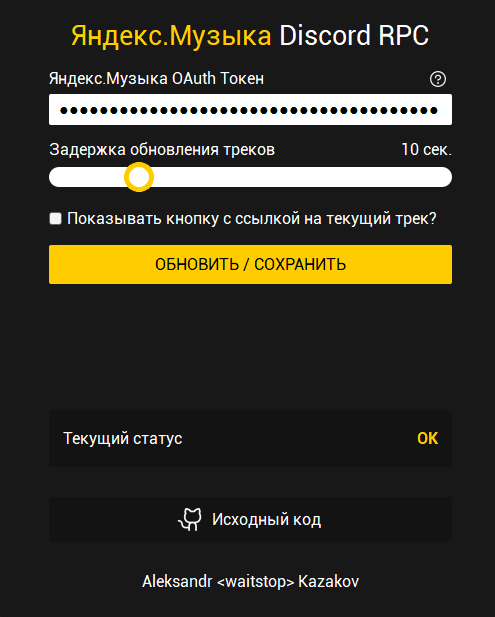
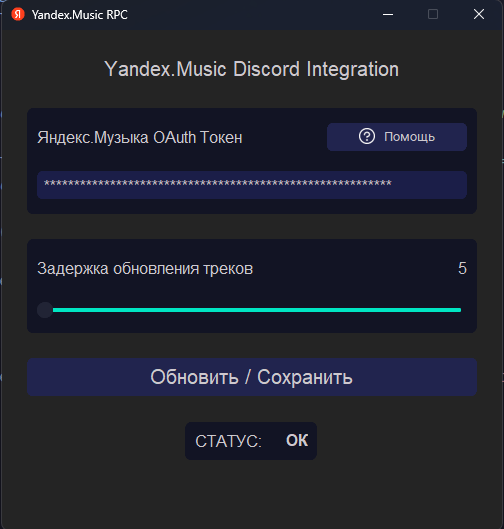
Realised main functional on new GUI

diff --git a/handlers/rpc.py b/handlers/rpc.py
@@ -1,0 +1,15 @@
+from tkinter import StringVar
+
+from pypresence import Presence
+from pypresence.exceptions import PyPresenceException
+
+
+def update_rpc(data: dict | Exception, rpc: Presence, status: StringVar) -> Exception | None:
+    try:
+        if type(data) == Exception:
+            status.set(str(data))
+            return data
+        rpc.update(**data)
+    except PyPresenceException:
+        status.set("Ошибка обновления RPC")
+        return Exception("Ошибка обновления RPC")

diff --git a/README.md b/README.md
@@ -1,8 +1,17 @@
 # Интеграция Яндекс.Музыки для Discord
+
 [![yandex-music-api](https://img.shields.io/badge/using-Yandex%20Music%20API-red?style=for-the-badge&logo=discord&logoWidth=20)](https://github.com/MarshalX/yandex-music-api)  [![pypresence](https://img.shields.io/badge/using-pypresence-00bb88.svg?style=for-the-badge&logo=discord&logoWidth=20)](https://github.com/qwertyquerty/pypresence)
+
+
+## [Как получить токен?](https://yandex-music.readthedocs.io/en/main/token.html)
+<hr>
+
+<h1>Скриншоты</h1>
+<hr>
 
 ![ui.png](screenshots%2Fui.png)
 
+![tray.png](screenshots%2Ftray.png)
+
 ![discord.png](screenshots%2Fdiscord.png)
 
-## [Как получить токен?](https://yandex-music.readthedocs.io/en/main/token.html)
